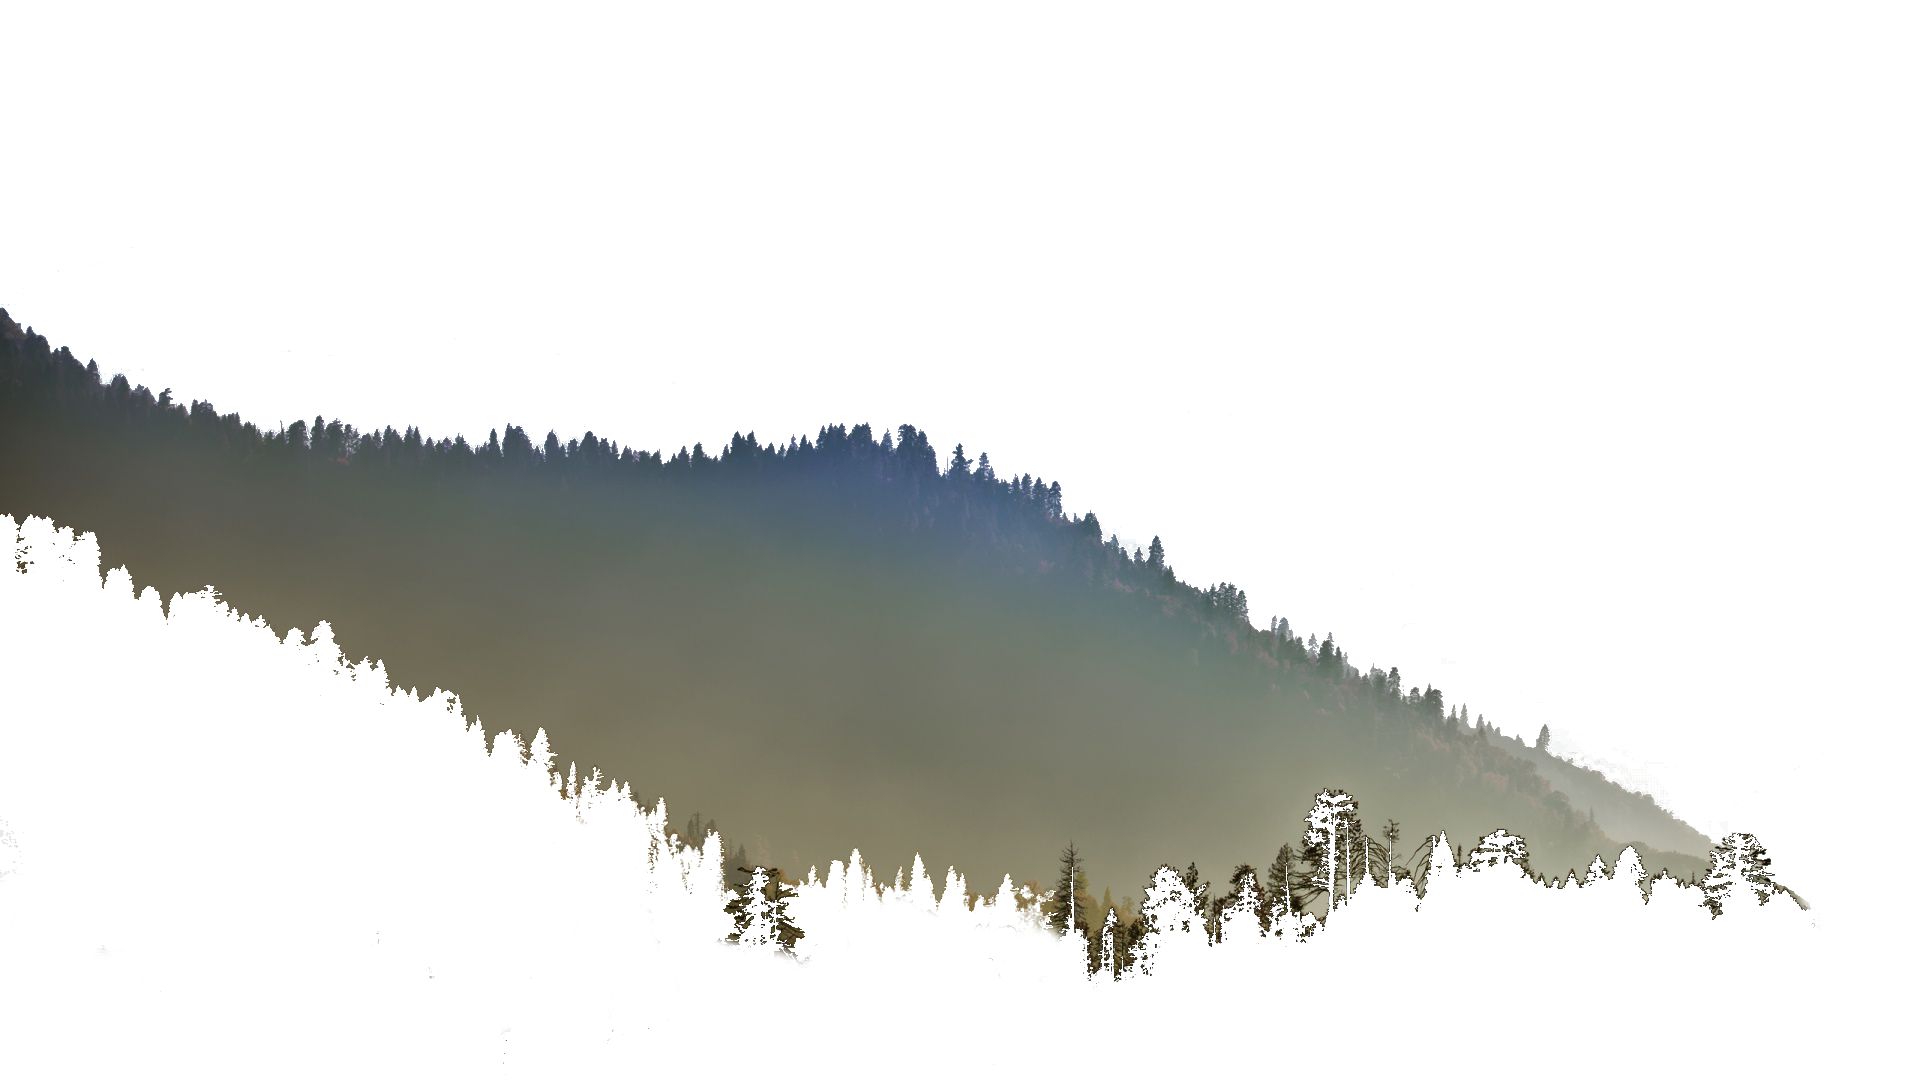
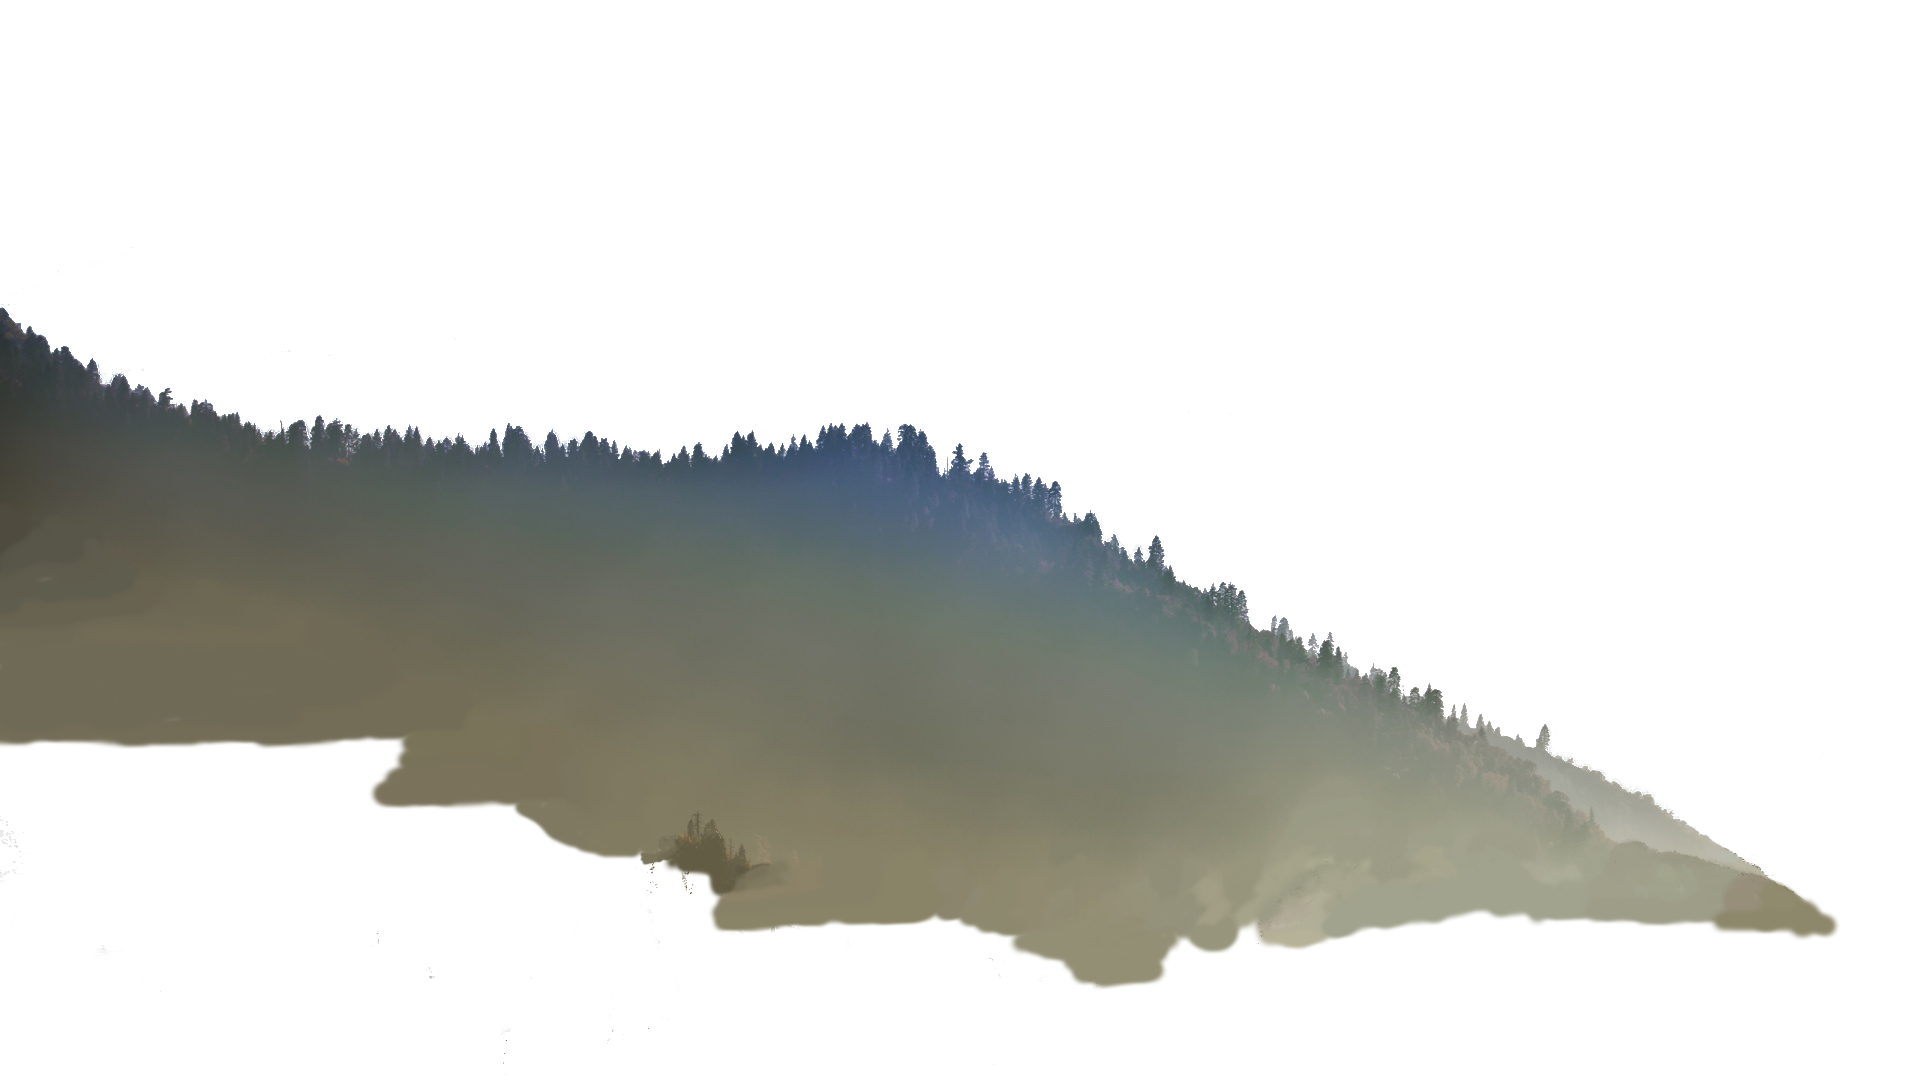
Add files via upload

Changed region(s): [[0.0, 0.4583, 0.9688, 0.9167]]

diff --git a/style.css b/style.css
@@ -68,7 +68,7 @@ body{
 }
 
 #parallax{
-	background: url(6959521-mountains-scenery.jpg) center center;
+	background: url(back.png) center center;
 	background-size: cover;
 	position: fixed;
 	height: 100vh;
